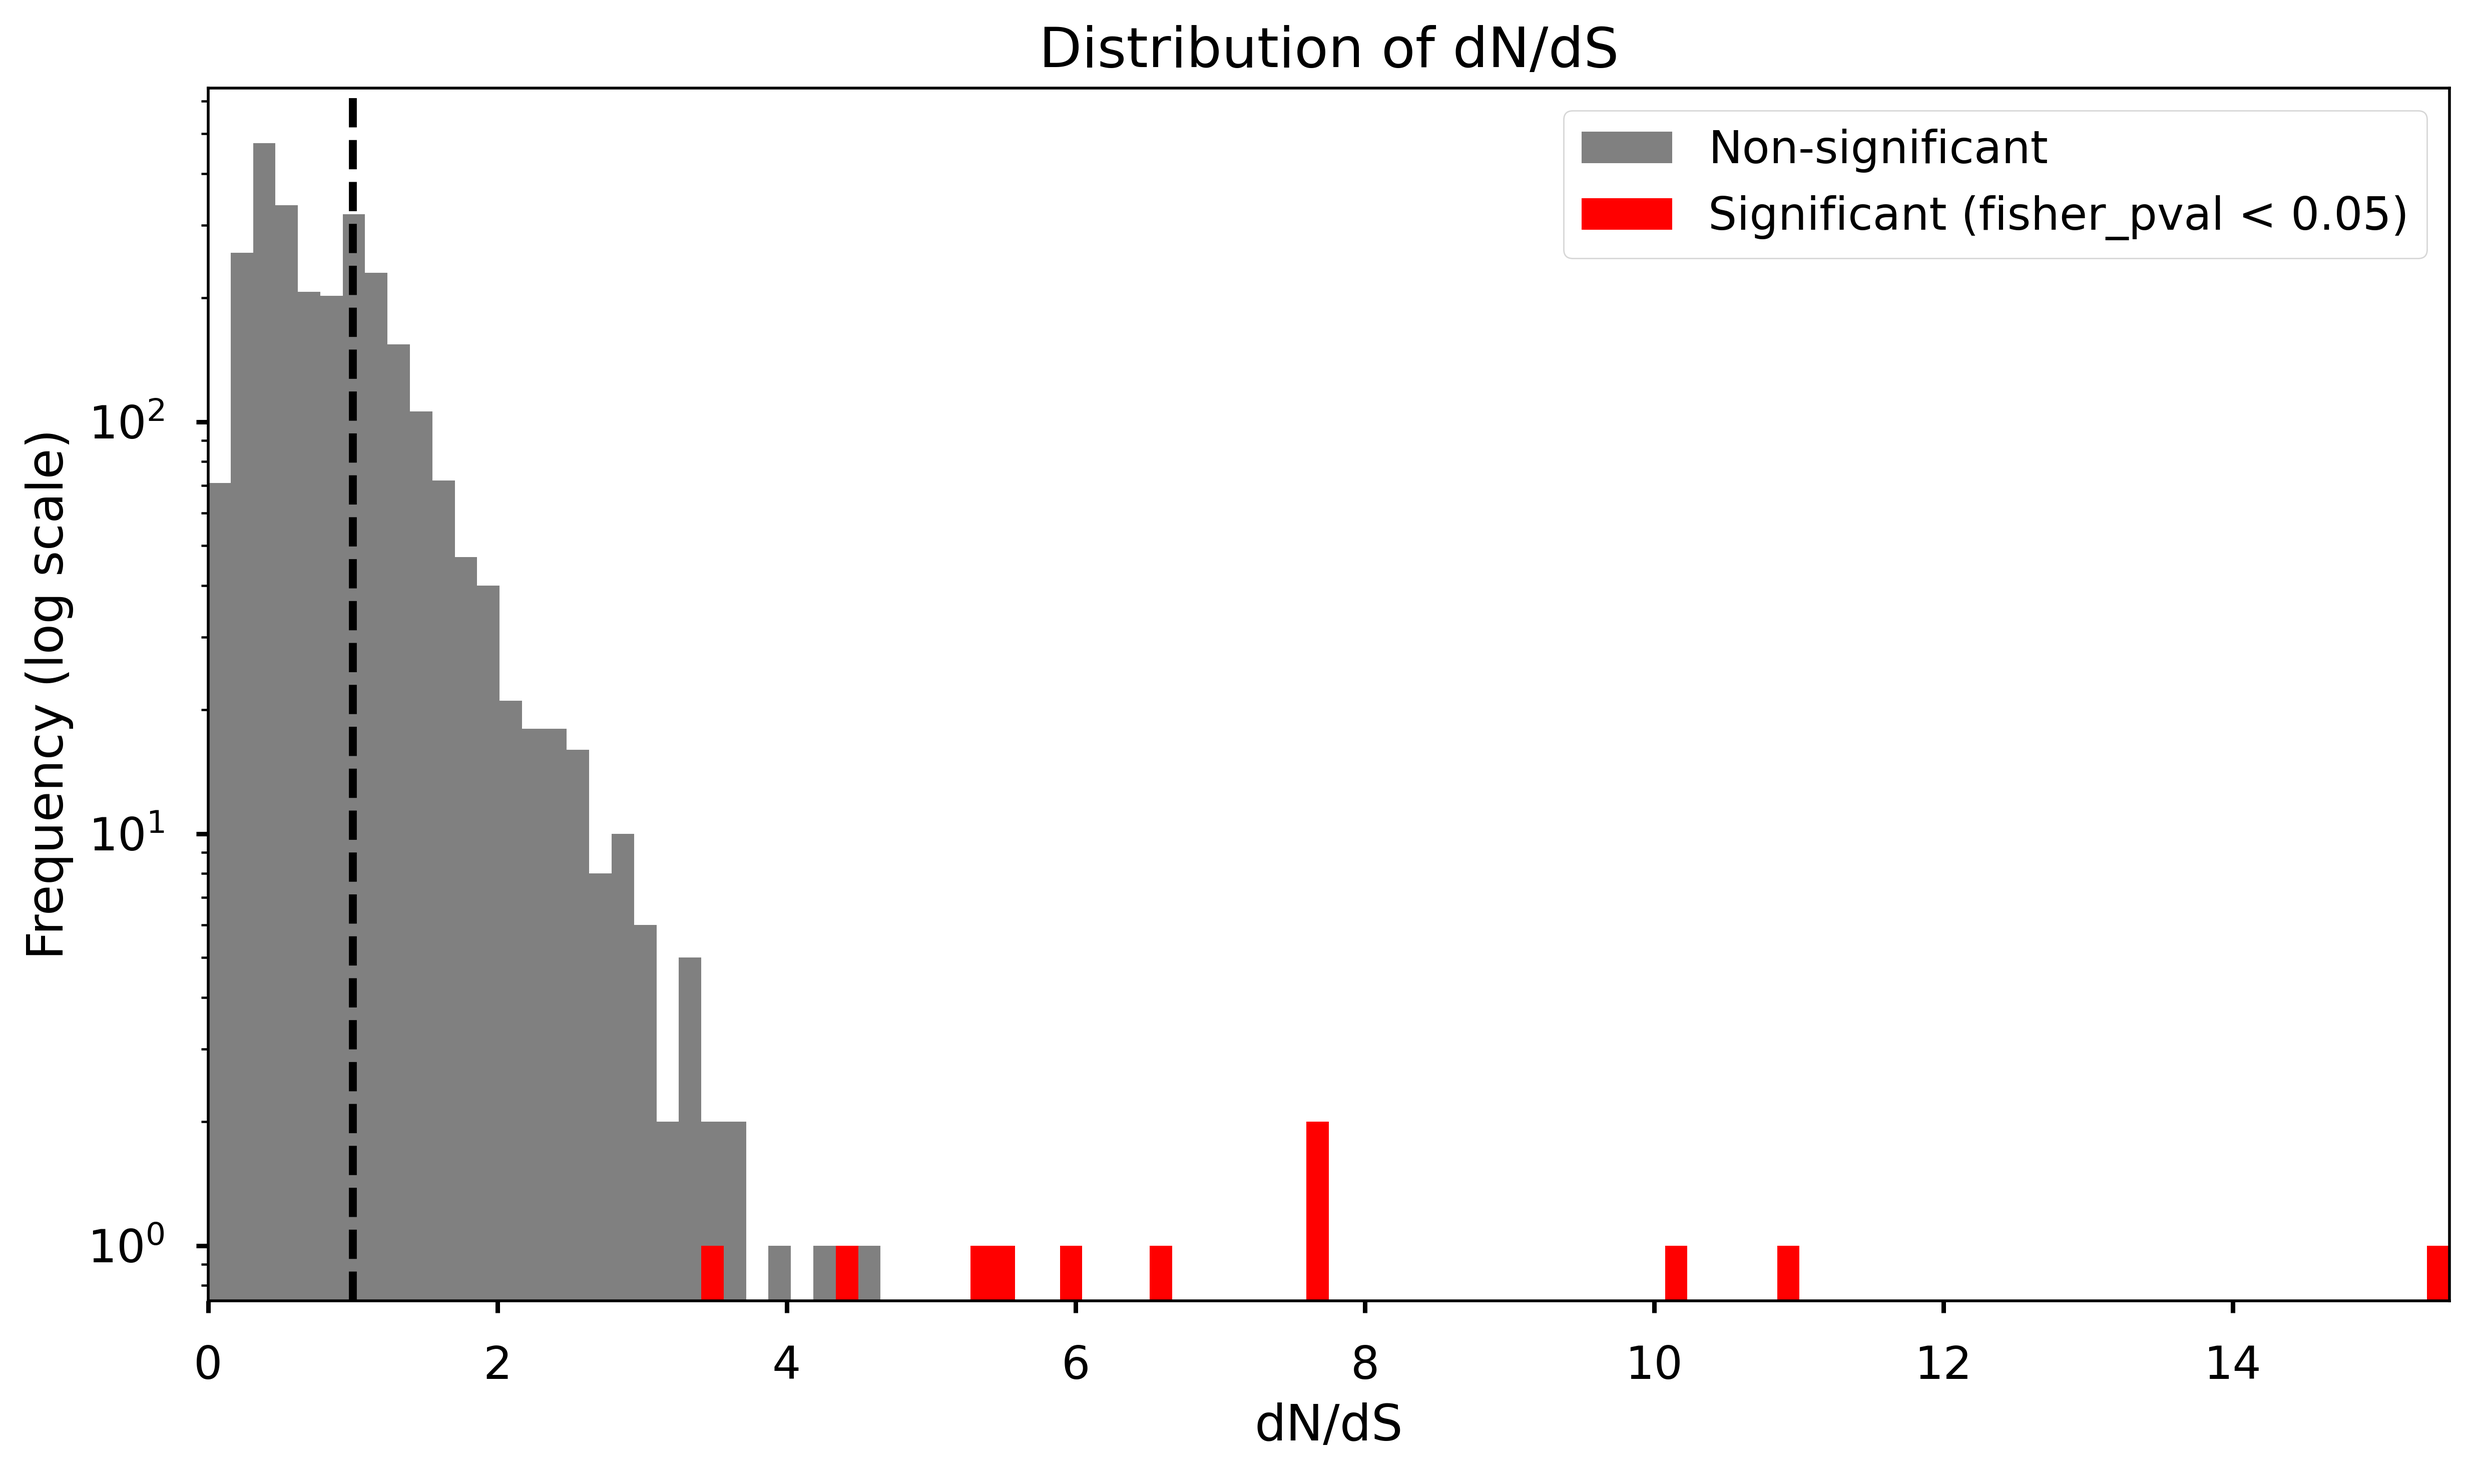
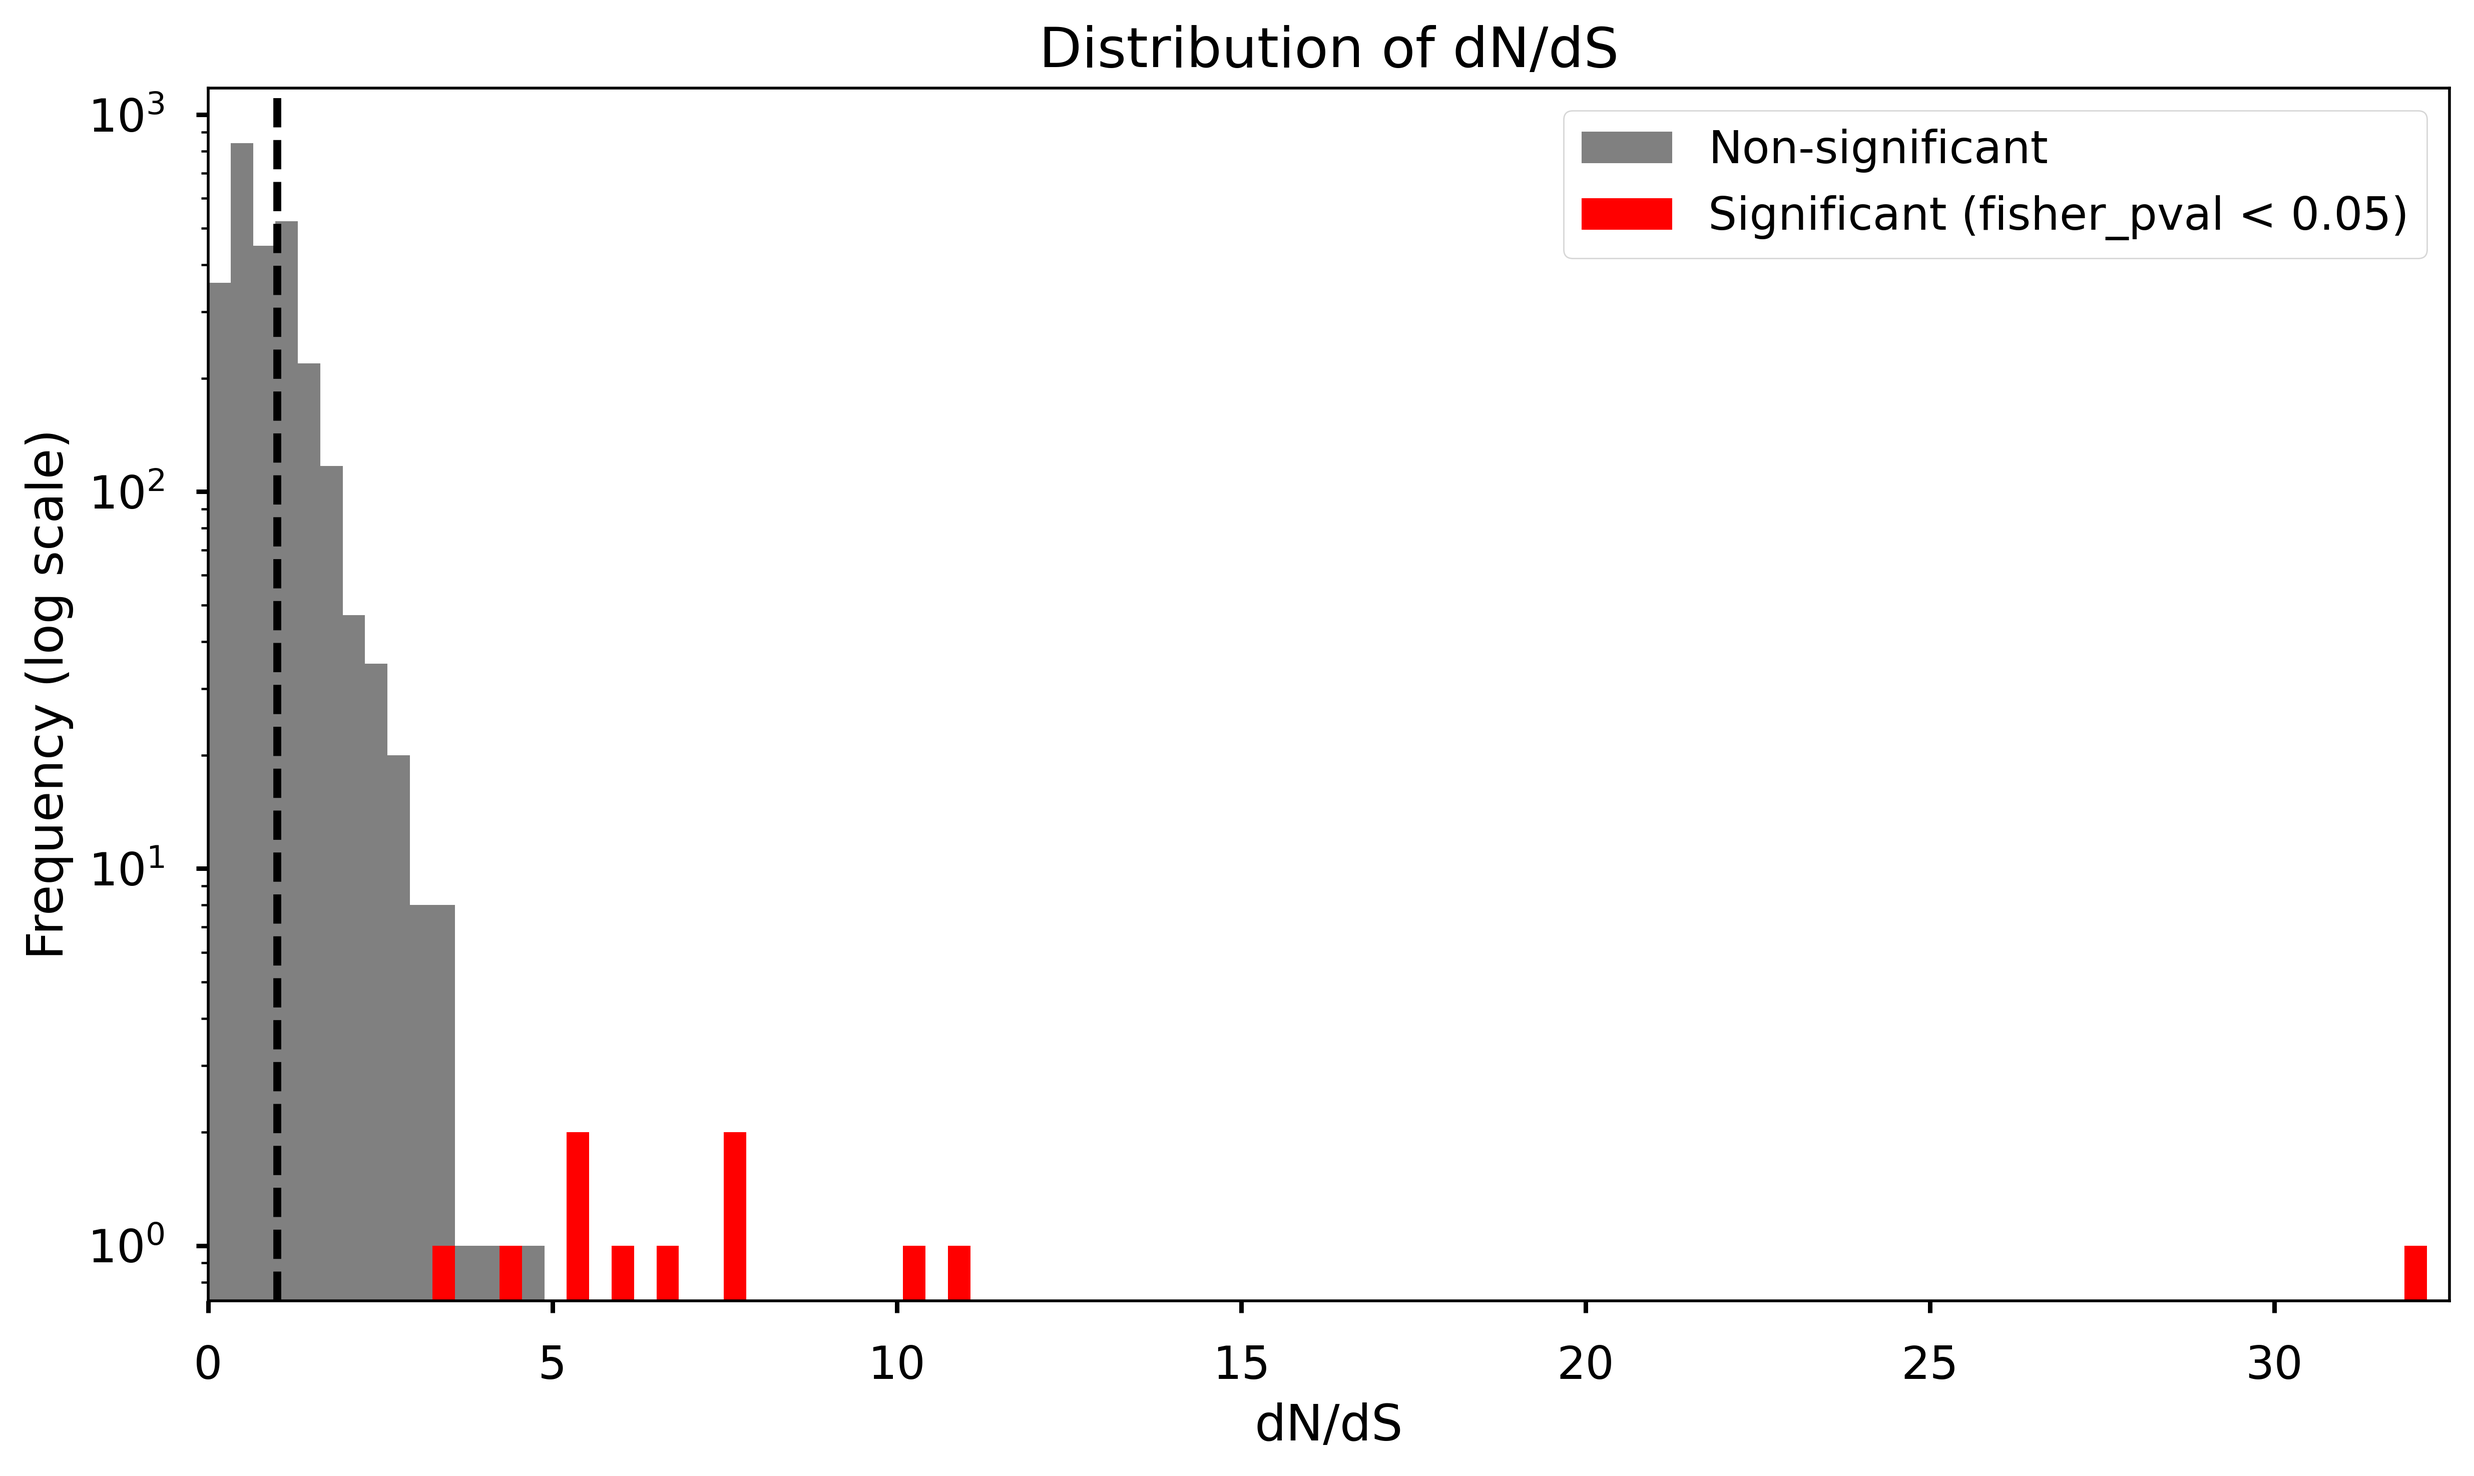
histogram x limit bug fix

diff --git a/project-2/src/pipeline/plot.py b/project-2/src/pipeline/plot.py
@@ -368,7 +368,7 @@ def plot_dNdS_stacked_bar(df, columns_to_plot=["dN/dS"], top_n=46, IntOGen_list=
     # Define bins (calculate once for consistency)
     # Adjust range based on your data, maybe exclude extreme outliers if needed
     min_val = max(-1, dnds_values.min()) # Limit lower bound if desired
-    max_val = min(15, dnds_values.max())+0.5 # Limit upper bound if desired
+    max_val = max(15, dnds_values.max())+0.5 # Limit upper bound if desired
     bins = np.linspace(min_val, max_val, 101) # 100 bins between min_val and max_val
 
     # Plot histograms: non-significant first, then significant on top
